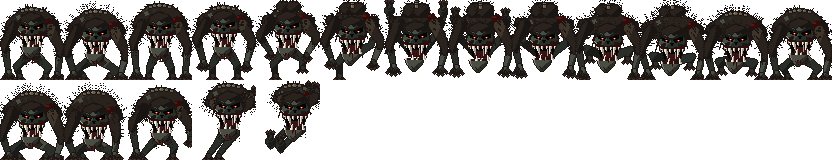
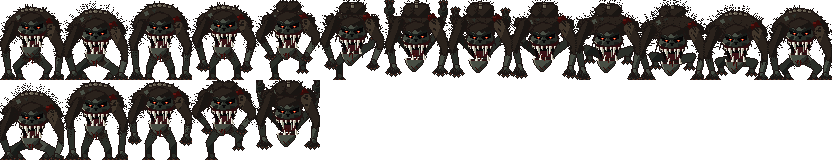
Redraw the loper's jump take-off front-on as the run's rising half pushed further (deeper crouch, higher paws, legs kicked up in the air) and drop the sideways flip, since the sprite always faces the player.
Claude-Session: https://claude.ai/code/session_0132iXTHzcBiXpxxXaDEVPcs

Changed region(s): [[0.0, 0.5, 0.4062, 1.0]]

diff --git a/tools/gen_enemy_sprites.py b/tools/gen_enemy_sprites.py
@@ -435,40 +435,40 @@ LOPER_POSES = [
 ]
 assert len(LOPER_POSES) == LOPER_FRAMES
 
-# Row 1 of the sheet: the jump take-off, same pose format plus bx (default 0), a horizontal
-# body shift in pixels (positive is image right, the way the loper springs; the game flips
-# the sprite for the other side). It moves the chest, mantle, hump, shoulders, hips and head
-# like by does; arms and legs stay absolute points. The airborne body narrows (negative
-# shoulder_dx) so the shifted mantle stays inside the 64 px cell.
-# Frame 0 settle: lower than the run's crouch, head dropped, both claw sets flat on row 79,
-# knees wide. Frame 1 coil: the deepest crouch, weight loaded back (bx -2), right arm drawn
-# in, claws still on the floor. Frame 2 push: body rising and leaning forward, the left leg
-# extending down-left, the right arm lifting off the floor to the up-right. Frame 3 launch:
-# body stretched, legs straight down-left with only the toe claws on row 79, both arms
-# reaching up-right, the jaw open wider. Frame 4 spring: airborne, held for the rest of the
-# jump; a diagonal from bottom-left to top-right, arms up with claws spread, legs trailing
-# soles-on, nothing on row 79.
+# Row 1 of the sheet: the jump, front-on like the run (the sprite is never flipped). Same
+# pose format as the run table; bx is left out (0), the body stays centred (draw_loper still
+# supports it). It is the run's rising half (frames 0 to 6) with the body higher and the
+# limbs thrown out further, and the same limits: the hump rises at most 5 px net.
+# Frame 0 crouch: run frame 1 deeper, hips low, knees wide, head low, elbows bowed out, claws
+# on row 79. Frame 1 push: run frame 2 stronger, body up, hind legs straight under it, arms
+# stretched long with claws still on row 79. Frame 2 paws-rise: run frame 3 more extreme, both
+# paws lifted high and wide, hind feet planted. Frame 3 lift-off: run frame 4 pushed on, paws
+# tucked high under the chest, rump showing, left toes the last thing on the floor. Frame 4
+# airborne: run frame 6 (kick) pushed on, held for the rest of the jump; body highest, both
+# hind feet sole-on at the top corners, rump and tail-bone above the hump, paws reaching
+# down and out, nothing on row 79.
 LOPER_JUMP_POSES = [
-	dict(by=5, hump_dy=-1, head_dy=4, shoulder_dx=2, lag=1,  # 0 settle
-		left=((1, 53), (8, 73), [(2, 79), (6, 79), (10, 79), (14, 78)]),
-		right=((62, 57), (56, 75), [(51, 78), (55, 79), (59, 79), (63, 78)]),
-		legs=(((10, 70), (19, 75)), ((54, 71), (45, 75)))),
-	dict(by=8, hump_dy=-5, head_dy=3, shoulder_dx=1, lag=1, bx=-2,  # 1 coil
-		left=((2, 56), (9, 74), [(3, 79), (7, 79), (11, 79), (15, 78)]),
-		right=((52, 55), (50, 73), [(46, 78), (50, 79), (54, 79), (57, 78)]),
-		legs=(((9, 72), (18, 75)), ((50, 72), (42, 75)))),
-	dict(by=2, hump_dy=-2, head_dy=3, shoulder_dx=0, lag=1, bx=2,  # 2 push
-		left=((3, 43), (8, 70), [(2, 79), (6, 79), (10, 79), (14, 78)]),
-		right=((61, 44), (62, 58), [(57, 63), (60, 65), (62, 65), (63, 63)]),
-		legs=(((20, 67), (13, 75)), ((46, 66), (44, 75)))),
-	dict(by=-4, hump_dy=0, head_dy=3, shoulder_dx=-3, lag=3, bx=5,  # 3 launch
-		left=((34, 28), (46, 18), [(52, 12), (54, 15), (53, 19)]),
-		right=((58, 22), (59, 14), [(61, 7), (63, 10), (63, 13)]),
-		legs=(((24, 64), (16, 75)), ((34, 64), (26, 75)))),
-	dict(by=-8, hump_dy=4, head_dy=8, shoulder_dx=-5, lag=3, bx=7,  # 4 spring
-		left=((38, 14), (48, 8), [(52, 2), (56, 4), (58, 8), (57, 12)]),
-		right=((59, 16), (60, 10), [(58, 3), (61, 4), (63, 7)]),
-		legs=(((24, 56), (14, 66)), ((34, 58), (24, 70))), soles=True),
+	dict(by=6, hump_dy=-2, head_dy=4, shoulder_dx=2, lag=1,  # 0 crouch
+		left=((0, 52), (8, 73), [(2, 79), (6, 79), (10, 79), (14, 78)]),
+		right=((63, 56), (56, 75), [(51, 78), (55, 79), (59, 79), (63, 78)]),
+		legs=(((9, 71), (19, 75)), ((55, 72), (45, 75)))),
+	dict(by=-4, hump_dy=-1, head_dy=2, shoulder_dx=0, lag=1,  # 1 push
+		left=((5, 38), (8, 71), [(2, 79), (6, 79), (10, 79), (14, 78)]),
+		right=((59, 42), (57, 72), [(52, 78), (56, 79), (60, 79), (63, 77)]),
+		legs=(((21, 66), (20, 75)), ((43, 67), (44, 75)))),
+	dict(by=-7, hump_dy=2, head_dy=2, shoulder_dx=1, lag=2,  # 2 paws-rise
+		left=((3, 36), (6, 54), [(1, 60), (4, 62), (8, 62), (11, 60)]),
+		right=((61, 38), (58, 55), [(53, 61), (56, 63), (60, 63), (63, 61)]),
+		legs=(((20, 63), (20, 75)), ((44, 62), (45, 75)))),
+	dict(by=-9, hump_dy=4, head_dy=4, shoulder_dx=-1, lag=2,  # 3 lift-off
+		left=((3, 31), (15, 46), [(11, 50), (14, 52), (17, 52), (19, 50)]),
+		right=((61, 33), (49, 47), [(45, 51), (48, 53), (51, 53), (53, 51)]),
+		legs=(((17, 62), (19, 75)), ((47, 56), (46, 64))), rump=(6, 7, 5, ())),
+	dict(by=-10, hump_dy=5, head_dy=14, shoulder_dx=0, lag=4,  # 4 airborne
+		left=((4, 38), (7, 58), [(2, 65), (6, 67), (10, 67), (14, 65)]),
+		right=((60, 40), (57, 60), [(50, 65), (54, 67), (58, 67), (62, 65)]),
+		legs=(((7, 26), (3, 11)), ((57, 27), (61, 12))), rump=(8, 8, 7, (1, 3, 5)),
+		soles=True),
 ]
 assert len(LOPER_JUMP_POSES) == JUMP_FRAMES
 

diff --git a/.claude/rules/art-style.md b/.claude/rules/art-style.md
@@ -283,7 +283,7 @@ target; its grid is not (it is upscaled about 3.2x off any exact grid).
 **Creepy, not cute** (owner, 2026-10-01, second pass): the raiders are Darkest
 Dungeon dark, never bright or rounded. The door raider is a humanoid gone
 feral, the loper: a 64 x 80 frame (1.54 x 1.92 m, claws on the van floor) on a
-832 x 160 sheet (row 0 the thirteen-frame run; row 1 a five-frame jump take-off, frames J0-J3 keep a claw row on the floor row and J4 is airborne; animation is frame-swapping on one sheet,
+832 x 160 sheet (row 0 the thirteen-frame run; row 1 a five-frame front-on jump take-off (the run's rising half, pushed further), frames J0-J3 keep a claw row on the floor row and J4 is airborne; animation is frame-swapping on one sheet,
 never a node tween: a bounding charge seen from the front at 18 fps, crouch,
 push, paws-rise, lift-off, tip-over, kick, fall, drop, reach, rump-down, land,
 gather; the kick, fall and drop frames are airborne, the kick 4 px off the floor

diff --git a/.claude/rules/enemies-and-breaching.md b/.claude/rules/enemies-and-breaching.md
@@ -33,7 +33,7 @@ The points live in `scenes/van/van_breach_points.tscn`, instanced at `VanRig/Ene
 - `scenes/enemies/window_raider.tscn` holds the door raider, a hunched humanoid
   feral (the loper): `Sprite3D` at `pixel_size 0.024` on `door_raider.png`, an 832 x 160 sheet:
   row 0 thirteen 64 x 80 run frames, row 1 a 5-frame jump take-off (`hframes 13, vframes 2`;
-  clip `jump`, 15 fps, no loop, plays on JUMPING with the sprite flipped toward the van; each 1.54 x 1.92 m; frame 0 is the still,
+  clip `jump`, 15 fps, no loop, plays on JUMPING, front-on like the run, never flipped; each 1.54 x 1.92 m; frame 0 is the still,
   `window_raider_anim.gd` is a clip player: named clips in `CLIPS` (sheet row, frames, fps,
   loop; `still`, `run`, `prowl` so far) set `frame_coords`, a new animation adds a sheet row
   (`SHEET_ROWS`) and a clip, and `_die` plays a `death` clip, when one exists, before the
